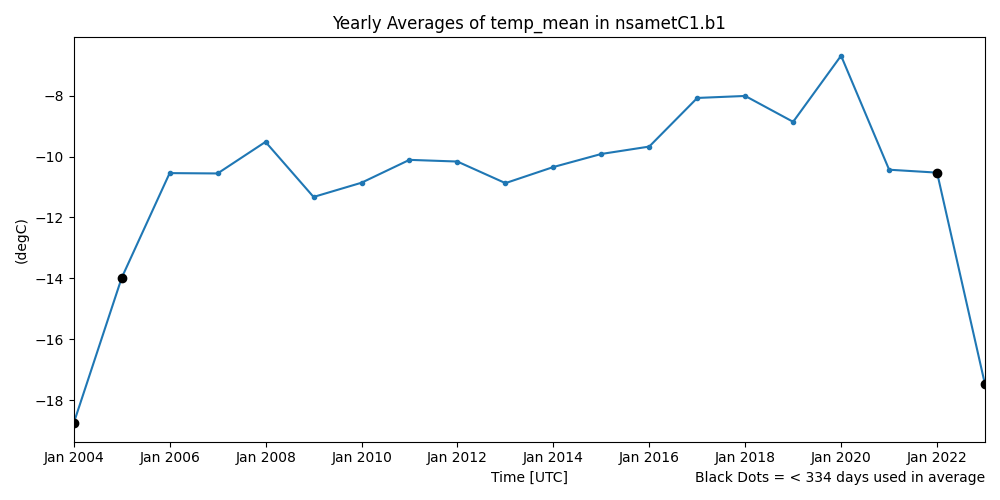
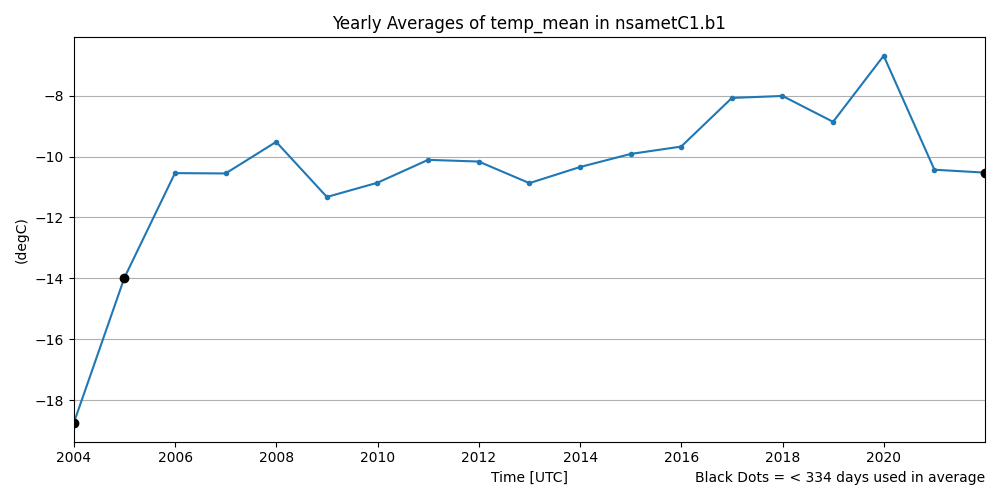
ENH: Latest plots/updates

diff --git a/plot_climatology.py b/plot_climatology.py
@@ -3,12 +3,13 @@ import matplotlib.pyplot as plt
 import matplotlib.dates as mdates
 import numpy as np
 import pandas as pd
+import scipy
 
 
 ds = 'nsametC1.b1'
-ds = 'nsa60noaacrnX1.b1'
+#ds = 'nsa60noaacrnX1.b1'
 variable = 'temp_mean'
-variable = 'temperature'
+#variable = 'temperature'
 averaging = 'Y'
 units = 'degC'
 
@@ -44,7 +45,11 @@ if averaging == 'Y':
 
 display.axes[0].xaxis.set_major_formatter(myFmt)
 display.axes[0].plot(obj['time'].values[idx], obj['mean'].values[idx], 'ko')
+display.axes[0].grid(axis='y')
 
+#seconds = (pd.to_datetime(obj['time'].values) - pd.Timestamp("1970-01-01")) // pd.Timedelta('1s')
+#result = scipy.stats.linregress(seconds, obj['mean'].values)
+#display.axes[0].plot(obj['time'].values, result.intercept + result.slope * seconds)
 
 imagename = './images/' + ds + '_' + variable + '_' + averaging + '.png'
 plt.tight_layout()
